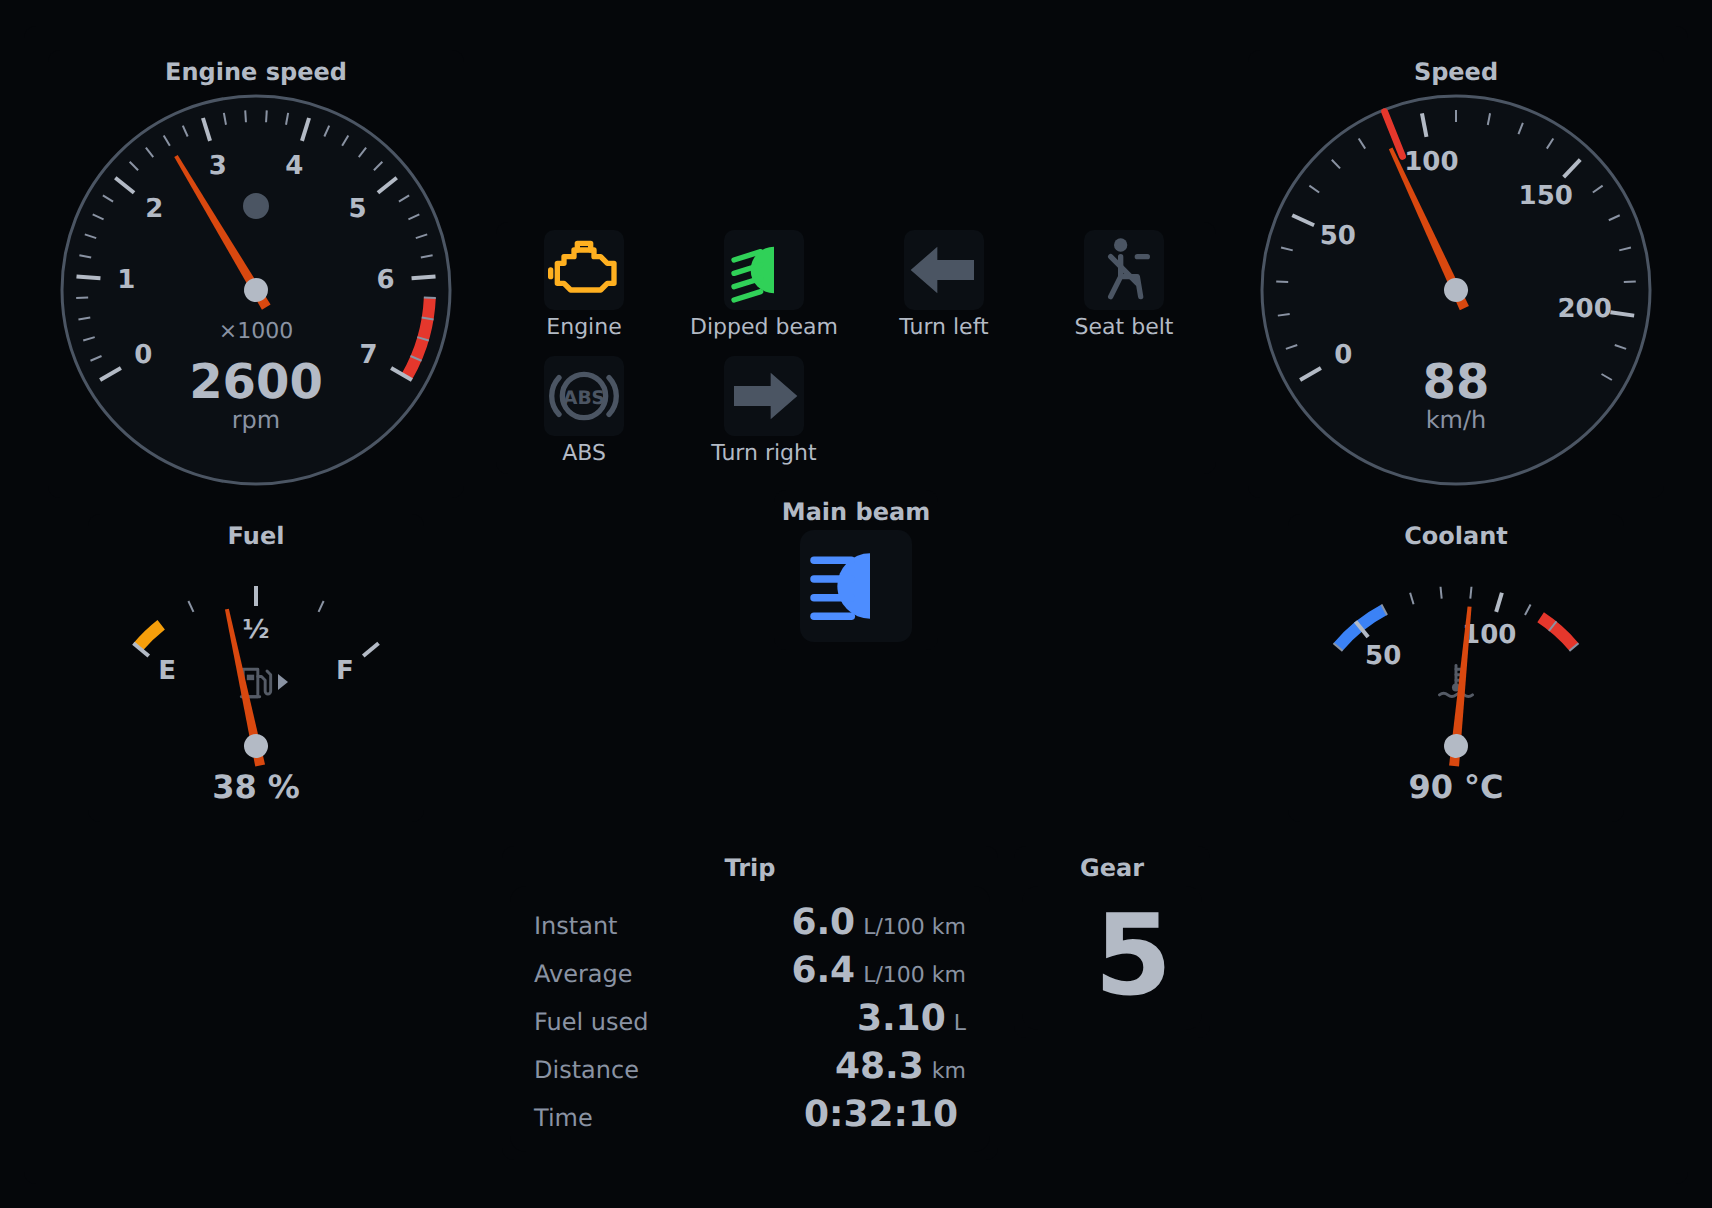
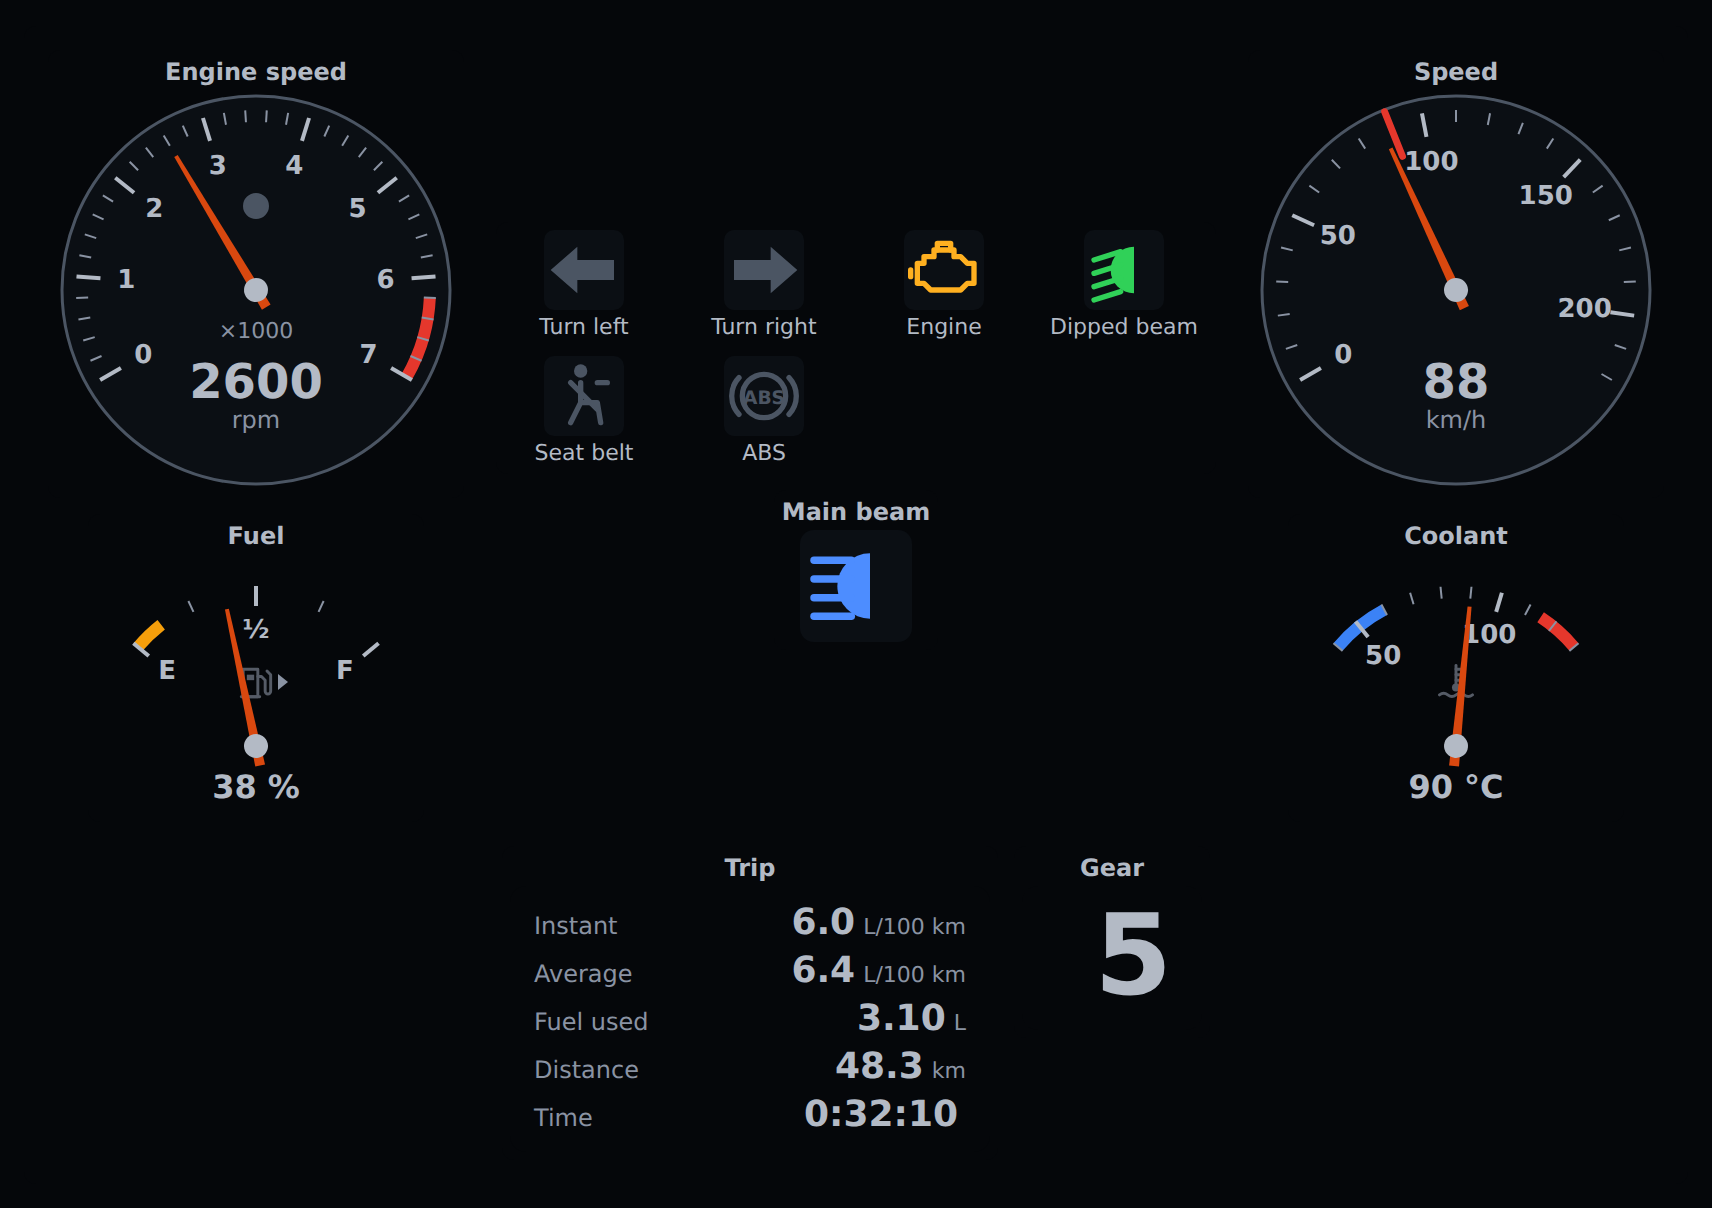
fix: keep the direction indicators side by side in a tell-tale row
A blinking direction indicator was moved to the front with the lit
tell-tales while the other arrow stayed among the unlit ones, so the two
could end up far apart, whereas on a vehicle they sit side by side.

- Specification 0.9: TEL-009, the direction indicators side by side, left
  before right, at the start of the row whatever their state; TEL-006
  orders the other tell-tales.
- orderLamps puts turn_left then turn_right first, then the lit
  tell-tales by colour, then the unlit ones as given; tests for one
  arrow, the other, both (hazard lights) and neither blinking.
- The cluster example shows both arrows; end-to-end tests, catalog,
  pictures and requirements status (102 of 108 implemented, 99 tested).

Claude-Session: https://claude.ai/code/session_01PvhCoK6JVMvwLQJ1HPrujG
Assisted-by: AI

diff --git a/js/test/telltale.test.ts b/js/test/telltale.test.ts
@@ -186,19 +186,30 @@ describe("indicator only (API-002, API-003)", () => {
   });
 });
 
-describe("a tell-tale cluster (TEL-006, TEL-008)", () => {
+describe("a tell-tale cluster (TEL-006, TEL-008, TEL-009)", () => {
   const lamp = (fn: string, state: Lamp["state"]): Lamp => ({ fn: FUNCTIONS[fn], function: fn, state, label: fn });
 
   test("orders the lit tell-tales red, amber, then green and blue, and the unlit ones after, as given (TEL-006)", () => {
-    const order = orderLamps([lamp("high_beam", "on"), lamp("turn_left", "off"), lamp("engine", "blinking"), lamp("low_beam", "on"), lamp("brake", "on"), lamp("abs", "off"), lamp("oil_pressure", "on")]);
-    expect(order.map((l) => l.function)).toEqual(["brake", "oil_pressure", "engine", "low_beam", "high_beam", "turn_left", "abs"]);
+    const order = orderLamps([lamp("high_beam", "on"), lamp("seat_belt", "off"), lamp("engine", "blinking"), lamp("low_beam", "on"), lamp("brake", "on"), lamp("abs", "off"), lamp("oil_pressure", "on")]);
+    expect(order.map((l) => l.function)).toEqual(["brake", "oil_pressure", "engine", "low_beam", "high_beam", "seat_belt", "abs"]);
+  });
+
+  test.each([
+    ["one blinking", "blinking", "off"],
+    ["the other blinking", "off", "blinking"],
+    ["both, hazard lights", "blinking", "blinking"],
+    ["neither", "off", "off"],
+  ])("keeps the direction indicators side by side, left before right, at the start of the row: %s (TEL-009)", (_n, left, right) => {
+    const order = orderLamps([lamp("brake", "on"), lamp("turn_right", right as Lamp["state"]), lamp("engine", "on"), lamp("low_beam", "off"), lamp("turn_left", left as Lamp["state"])]);
+    expect(order.map((l) => l.function).slice(0, 2)).toEqual(["turn_left", "turn_right"]);
+    expect(order.map((l) => l.function).slice(2)).toEqual(["brake", "engine", "low_beam"]);
   });
 
   test("shows a row of tell-tales, each with its name (TEL-008)", async () => {
     const w = cluster({ value: [{ function: "turn_left", state: "off" }, { function: "engine", state: "on" }, { function: "brake", state: "off", label: "Handbrake" }] });
     await frame();
     const tiles = [...w.el.querySelectorAll(".awa-tt")] as HTMLElement[];
-    expect(tiles.map((t) => t.querySelector(".awa-tt-name")!.textContent)).toEqual(["Engine", "Turn left", "Handbrake"]);
+    expect(tiles.map((t) => t.querySelector(".awa-tt-name")!.textContent)).toEqual(["Turn left", "Engine", "Handbrake"]);
     expect(tiles.map((t) => t.getAttribute("role"))).toEqual(["listitem", "listitem", "listitem"]);
     expect(w.body.getAttribute("aria-description")).toBe("1 lit of 3");
   });

diff --git a/js/src/widgets/telltale.ts b/js/src/widgets/telltale.ts
@@ -1,4 +1,4 @@
-// TellTale and TellTaleCluster (TEL-001 .. TEL-008).
+// TellTale and TellTaleCluster (TEL-001 .. TEL-009).
 import { html, setAttr, setText, svg, svgText } from "anywidget-instruments/js/src/core/dom.js";
 import type { AnyModel } from "anywidget-instruments/js/src/core/model.js";
 import { STATE_TEXT, type ValueState } from "../core/state.js";
@@ -18,15 +18,22 @@ const STATES = new Set(["off", "on", "blinking"]);
 
 export const lit = (l: Lamp): boolean => l.state === "on" || l.state === "blinking";
 
+/** The direction indicators, in the order they are shown: left, then right (TEL-009). */
+export const INDICATORS = ["turn_left", "turn_right"];
+
 /**
- * Order of a cluster (TEL-006): the lit tell-tales first, red, then amber, then
- * green and blue, each colour in the order given; then the others, in the order
- * given, so that nothing moves among them when one lights up.
+ * Order of a cluster. The direction indicators come first, side by side, left
+ * before right, whatever their state (TEL-009): a blinking arrow stays next to
+ * the other, as on a vehicle. Then the lit tell-tales, red, then amber, then
+ * green and blue, each colour in the order given (TEL-006); then the others, in
+ * the order given, so that nothing moves among them when one lights up.
  */
 export function orderLamps(lamps: Lamp[]): Lamp[] {
-  const on = lamps.filter(lit).map((l, i) => ({ l, i }));
+  const indicators = INDICATORS.flatMap((f) => lamps.filter((l) => l.function === f));
+  const rest = lamps.filter((l) => !INDICATORS.includes(l.function));
+  const on = rest.filter(lit).map((l, i) => ({ l, i }));
   on.sort((a, b) => COLOUR_ORDER[a.l.fn!.colour] - COLOUR_ORDER[b.l.fn!.colour] || a.i - b.i);
-  return [...on.map((x) => x.l), ...lamps.filter((l) => !lit(l))];
+  return [...indicators, ...on.map((x) => x.l), ...rest.filter((l) => !lit(l))];
 }
 
 /** Accessible text of a tell-tale: its name and its state. */

diff --git a/e2e/marimo.spec.js b/e2e/marimo.spec.js
@@ -15,9 +15,13 @@ test("the cluster follows the unit system and the head-up display set from Pytho
   await expect(speed.locator(".awa-unit")).toHaveText("mph");
   await expect(speed.locator(".awa-readout")).toHaveText("56");
 
-  // a tell-tale lit from Python moves to the front of its row
+  // a tell-tale lit from Python moves to the front of its row, after the direction
+  // indicators, which stay side by side whatever their state (TEL-009)
   await page.getByRole("switch", { name: "Oil pressure" }).click();
-  await expect(page.locator(".awa-telltalecluster .awa-tt").first()).toHaveAttribute("data-function", "oil_pressure");
+  const tiles = page.locator(".awa-telltalecluster .awa-tt");
+  await expect(tiles.nth(0)).toHaveAttribute("data-function", "turn_left");
+  await expect(tiles.nth(1)).toHaveAttribute("data-function", "turn_right");
+  await expect(tiles.nth(2)).toHaveAttribute("data-function", "oil_pressure");
 
   // the head-up display: mirrored, and only the speed and what is marked hud
   await page.getByRole("switch", { name: "Head-up display" }).click();

diff --git a/e2e/web.spec.js b/e2e/web.spec.js
@@ -27,9 +27,11 @@ test("a rejected trait is shown invalid, not guessed (HOST-004)", async ({ page 
 test("tell-tales take their colour from their function and the lit ones come first", async ({ page }) => {
   const tiles = page.locator("#lamps .awa-tt");
   await expect(tiles).toHaveCount(3);
-  await expect(tiles.nth(0)).toHaveClass(/awa-amber/);
-  await expect(tiles.nth(0).locator(".awa-sym")).toHaveCSS("color", "rgb(255, 176, 32)");
-  await expect(tiles.nth(1)).toHaveClass(/awa-green/);
+  // the direction indicator first, whatever its state (TEL-009), then the lit ones by colour
+  await expect(tiles.nth(0)).toHaveAttribute("data-function", "turn_left");
+  await expect(tiles.nth(1)).toHaveClass(/awa-amber/);
+  await expect(tiles.nth(1).locator(".awa-sym")).toHaveCSS("color", "rgb(255, 176, 32)");
+  await expect(tiles.nth(2)).toHaveClass(/awa-green/);
 });
 
 test("a cluster in head-up display mode is mirrored and shows the speed and what is marked hud", async ({ page }) => {

diff --git a/src/anywidget_automotives/_telltale.py b/src/anywidget_automotives/_telltale.py
@@ -82,7 +82,8 @@ def _item(item: Any) -> dict[str, Any]:
 
 
 class TellTaleCluster(AutomotiveWidget):
-    """A row of tell-tales, the lit ones first: red, then amber, then green and blue.
+    """A row of tell-tales: the direction indicators first, side by side, then the lit
+    ones, red, then amber, then green and blue (TEL-006, TEL-009).
 
     ``value`` is a list of tell-tales, each a dict ``{"function", "state",
     "label"}`` (``label`` optional), a ``(function, state)`` pair or a

diff --git a/lite/marimo/cluster_preview.py b/lite/marimo/cluster_preview.py
@@ -161,6 +161,7 @@ def _(
         ("engine", on(mil.value and kind != "electric")),
         ("low_charge" if kind == "electric" else "low_fuel", on(low)),
         ("turn_left", "blinking" if turn.value else "off"),
+        ("turn_right", "off"),
         ("high_beam", on(high_beam.value)),
     ]
     if kind != "combustion":

diff --git a/docs/specification.md b/docs/specification.md
@@ -8,7 +8,7 @@
 | Author | Sébastien Celles |
 | Document type | Software requirements specification |
 | Notation | EARS (Easy Approach to Requirements Syntax) |
-| Version | 0.8 |
+| Version | 0.9 |
 | Date | 2026-09-28 |
 | Status | Draft for review, during implementation |
 
@@ -168,9 +168,10 @@ Requirements use identifiers `<GROUP>-<NNN>` with priorities:
 | TEL-003 | M | The `TellTale` shall show the name of its function as text as well as its symbol, so that colour is never the only cue. |
 | TEL-004 | M | The `TellTale` shall accept the states `off`, `on` and `blinking`. |
 | TEL-005 | S | While a `TellTale` is off, the widget shall draw its symbol dimmed, so that a lit one stands out. |
-| TEL-006 | S | When several tell-tales of a `TellTaleCluster` are lit, the widget shall order them red first, then amber, then green and blue. |
+| TEL-006 | S | When several tell-tales of a `TellTaleCluster` other than the direction indicators are lit, the widget shall order them red first, then amber, then green and blue. |
 | TEL-007 | M | While a `TellTale` is blinking, the widget shall blink at a frequency between 1 and 2 Hz. |
 | TEL-008 | M | The library shall provide a **TellTaleCluster**: a row of tell-tales. |
+| TEL-009 | S | The `TellTaleCluster` shall show the direction indicators side by side, left before right, at the start of the row, whatever their state, so that one blinking is never separated from the other. |
 
 ---
 
@@ -383,7 +384,7 @@ when the drivetrain drives the wheels and negative when it regenerates.
 | Tachometer, red zone, shift light | Tachometer | DIAL-102 to DIAL-104 |
 | Fuel gauge, reserve, filler side | FuelGauge | DIAL-105, DIAL-106 |
 | Temperature gauge | TemperatureGauge | DIAL-107, DIAL-108 |
-| Warning and indicator lights | TellTale, TellTaleCluster | TEL-001 to TEL-008 |
+| Warning and indicator lights | TellTale, TellTaleCluster | TEL-001 to TEL-009 |
 | Trip computer | TripComputer | DIG-001 to DIG-004 |
 | Odometer and trip meter | Odometer | DIG-005 |
 | Gear display and shift suggestion | GearIndicator | DIG-006, DIG-007 |
@@ -409,6 +410,7 @@ when the drivetrain drives the wheels and negative when it regenerates.
 | Version | Changes |
 |---|---|
 | 0.1 | Initial draft. |
+| 0.9 | TEL-009 added: the direction indicators side by side, left before right, at the start of a tell-tale row; TEL-006 orders the other tell-tales. |
 | 0.8 | Section 17 added: electric and hybrid drivetrains (EV-001 .. EV-008). Unit table: power, energy and energy economy; UNIT-012 extended to energy economy. Former sections 17 and 18 renumbered 18 and 19. |
 | 0.7 | Section 7: a `Cluster` holds its widgets as a list of trait dictionaries and draws them itself. Section 10: the `hud` trait of every widget. Section 8: the `theme` values `day` and `night`. |
 | 0.6 | Open questions 1 (dials derive from the base view of anywidget-instruments) and 2 (original tell-tale drawings) resolved. Unit table: fuel rate added, unit names stated as those of the trait contract and of the display. Section 12: the `_value_seq` trait, by which a host signals an update that does not change the value (ROB-001). |

diff --git a/docs/requirements-status.md b/docs/requirements-status.md
@@ -1,6 +1,6 @@
 # Requirements status
 
-Where the [specification](specification.md) 0.8 stands in the code. A requirement is
+Where the [specification](specification.md) 0.9 stands in the code. A requirement is
 **implemented** when the code does what it says for every widget it concerns, and
 **tested** when an automated test fails without it. A requirement met by one layer but
 not yet by the widgets that need it — the units of a cluster before the `Cluster` exists — is
@@ -12,7 +12,7 @@ listed as partial and not counted.
 | Common widget API (API) | 6 | 6 | 6 |
 | Dials (DIAL) | 13 | 13 | 13 |
 | Speed display (SPD) | 5 | 4 | 4 |
-| Tell-tales (TEL) | 8 | 8 | 8 |
+| Tell-tales (TEL) | 9 | 9 | 9 |
 | Digital displays (DIG) | 7 | 7 | 7 |
 | Cluster (CLU) | 3 | 3 | 3 |
 | Legibility (LEG) | 5 | 3 | 3 |
@@ -25,7 +25,7 @@ listed as partial and not counted.
 | Quality and verification (QA) | 3 | 2 | 2 |
 | Host independence (HOST) | 6 | 6 | 4 |
 | Electric and hybrid drivetrains (EV) | 8 | 8 | 8 |
-| **Total** | **107** | **101** | **98** |
+| **Total** | **108** | **102** | **99** |
 
 ## Implemented
 
@@ -52,7 +52,7 @@ listed as partial and not counted.
 | DIS-002 | Every widget holds a value changing faster than twice a second for 0.5 s (`AutomotiveView`) | `dials.test.ts` |
 | DIS-003 | `animate` on every dial | `dials.test.ts` |
 | DIS-004 | The safety notice | `tests/test_docs.py` |
-| TEL-001 .. TEL-008 | `js/src/widgets/telltales.ts`, `telltale.ts` | `telltale.test.ts`, `contrast.test.ts` |
+| TEL-001 .. TEL-009 | `js/src/widgets/telltales.ts`, `telltale.ts` | `telltale.test.ts`, `contrast.test.ts` |
 | UNIT-001 .. UNIT-003, UNIT-005, UNIT-010 .. UNIT-015, UNIT-017 | `units.ts`, `units.schema.json`, applied by the dials | `units.test.ts`, `dials.test.ts`, parity cases, `test_contract.py` |
 | ROB-001 .. ROB-003 | `max_age` and `_value_seq`, `null` values, the kernel liveness of anywidget-instruments | `telltale.test.ts`, `dials.test.ts` |
 | A11Y-001, A11Y-002 | Accessible names and states (a dial is a `meter`); no blinking and no gliding needle under reduced motion | `telltale.test.ts`, `dials.test.ts` |

diff --git a/docs/roadmap.md b/docs/roadmap.md
@@ -8,7 +8,7 @@ sequenced by dependency, not dated: each one rests on the ones before it.
 | Delivered | Notes |
 |---|---|
 | Documentation site | Catalog, safety notice, standards, head-up display guide, integration with CAN & CANopen Studio, development guide |
-| Specification 0.8 | 107 requirements in EARS notation, 17 groups; open questions 1 and 2 resolved |
+| Specification 0.9 | 108 requirements in EARS notation, 17 groups; open questions 1 and 2 resolved |
 | 1. Foundations | TypeScript front end on the base view of anywidget-instruments, trait contract and parity cases, Python binding, CI, JupyterLite, documentation images captured in CI |
 | 2. Units and robustness | The unit layer and the missing, stale and invalid states, applied by every widget |
 | 3. Tell-tales | `TellTale` and `TellTaleCluster`, 22 functions with original symbols |
@@ -19,8 +19,8 @@ sequenced by dependency, not dated: each one rests on the ones before it.
 | 7. Hosts, in part | A page with no kernel and marimo tested end to end; pint quantities; a KaimonSlate.jl example and a Rust web view documented |
 | Examples | marimo WebAssembly notebooks, opened by clicking the pictures of the documentation: a cluster with a combustion, hybrid or electric drivetrain, tell-tales, dials, digital displays, electric and hybrid |
 
-The [requirements status](requirements-status.md) shows 101 of 107 requirements
-implemented, 98 of them tested.
+The [requirements status](requirements-status.md) shows 102 of 108 requirements
+implemented, 99 of them tested.
 
 ## Principles
 

diff --git a/docs/widgets.md b/docs/widgets.md
@@ -162,8 +162,10 @@ yet. Captured from the widgets by `npm run images`, in the day and the night the
 
 ### `TellTaleCluster` — available
 
-A row of tell-tales. The lit ones come first, red, then amber, then green and blue; the
-others follow in the order given, so that nothing moves among them when one lights up
+A row of tell-tales. The direction indicators come first, side by side, left before
+right, whatever their state, so that a blinking arrow stays next to the other
+(TEL-009). Then the lit tell-tales, red, then amber, then green and blue; the others
+follow in the order given, so that nothing moves among them when one lights up
 (TEL-006). Each item is a dict, a `(function, state)` pair or a `TellTale`; `size` is
 the size of one tell-tale.
 
